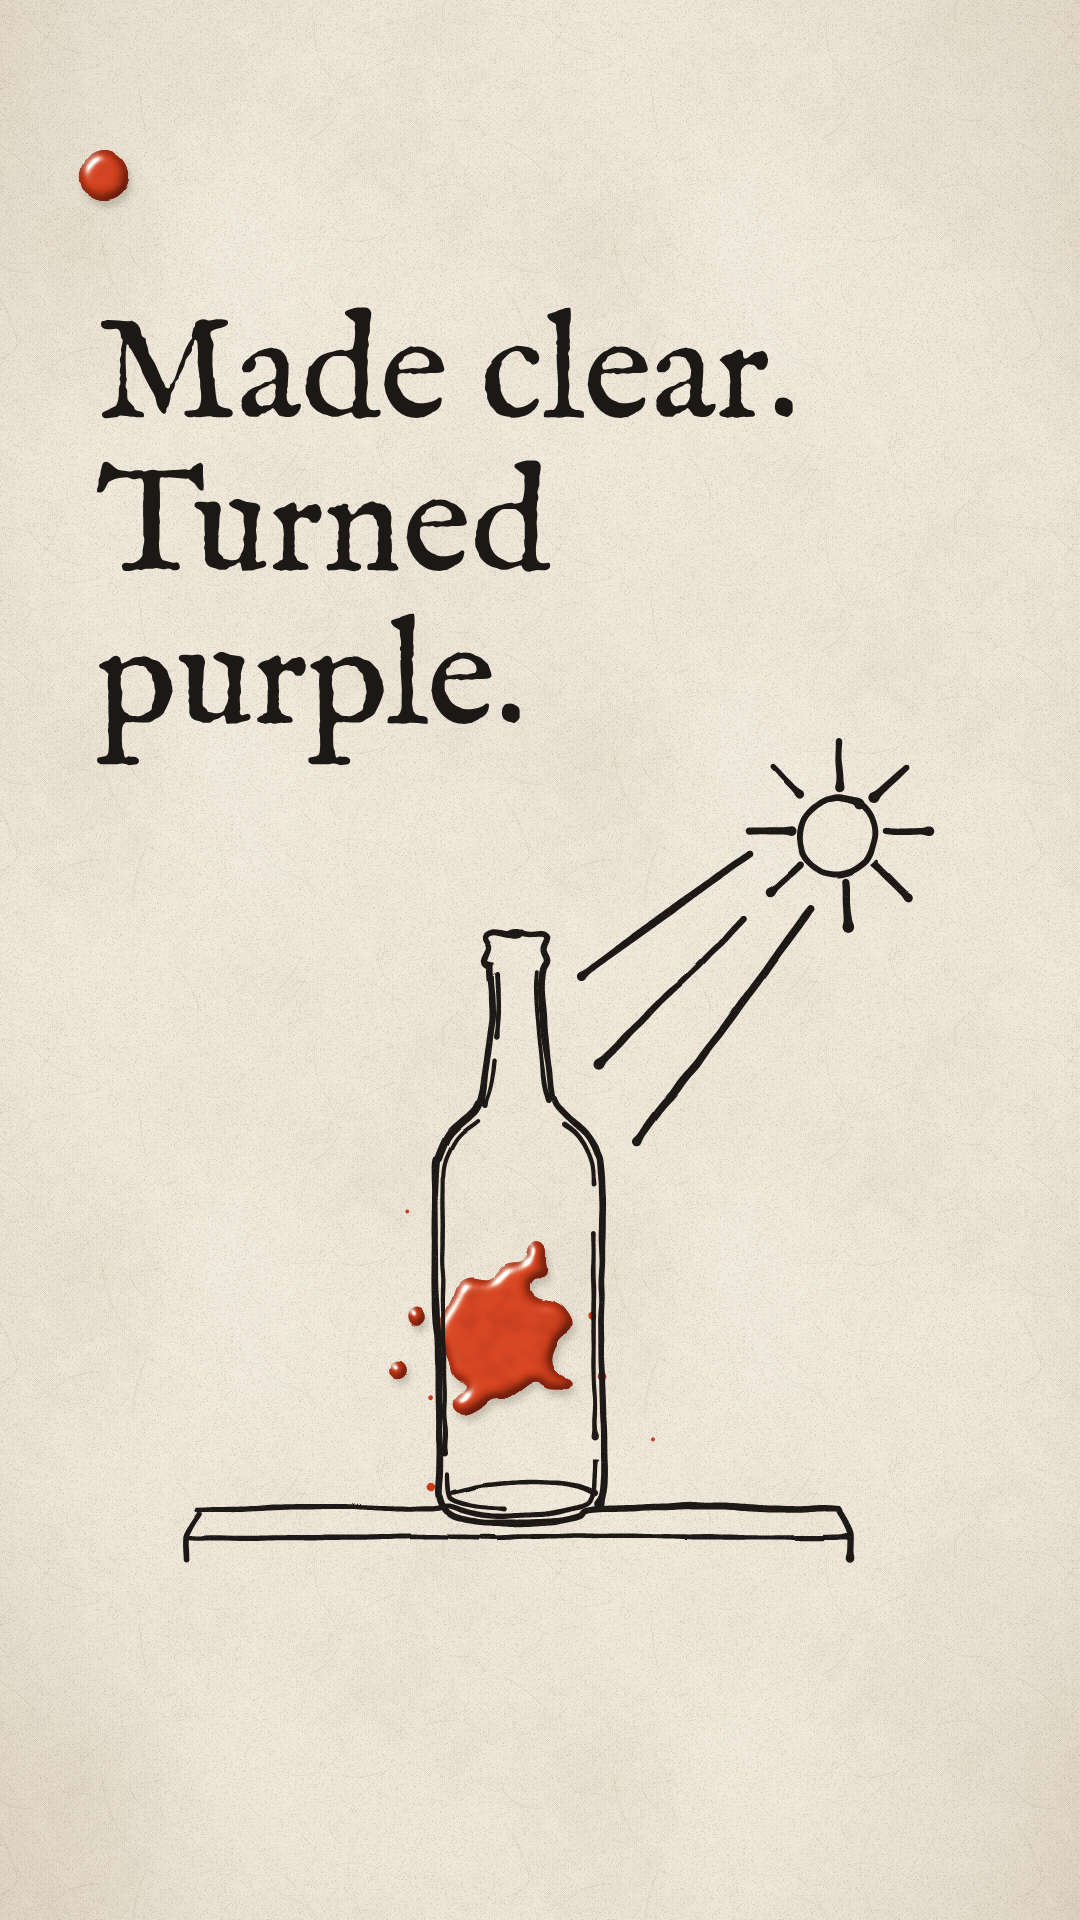
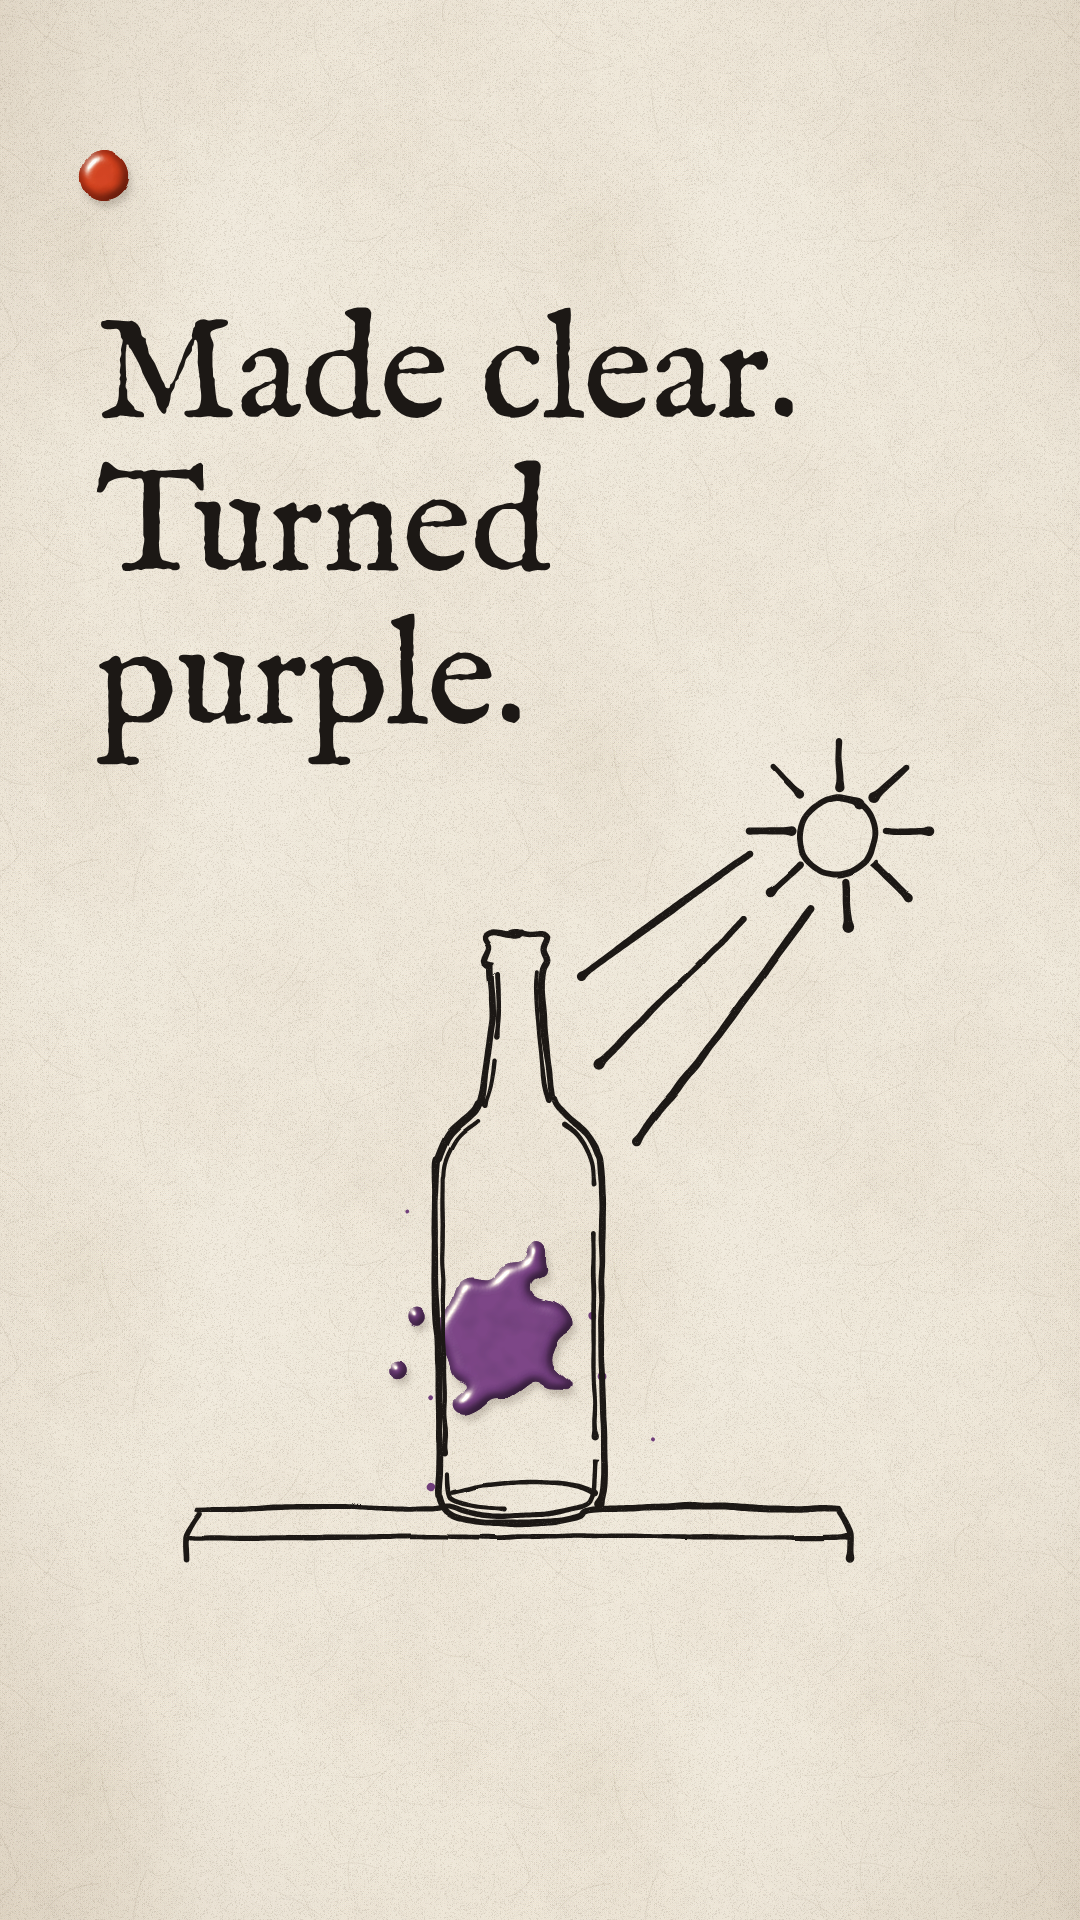
Cover paint can take the named colour (layout cover.color); Short 03's cover splash is now purple
The brand dot keeps a red copy of the paint filter.

Claude-Session: https://claude.ai/code/session_015VaSP1oJDutRL47vjmUuCK

Changed region(s): [[0.3667, 0.625, 0.5194, 0.75]]

diff --git a/engine/page.html b/engine/page.html
@@ -551,6 +551,11 @@ function renderCover() {
   $('ink').innerHTML = Ink.drawingPaths(items, 1).map(d => '<path d="' + d + '"/>').join('');
   const goo = [], spk = [];
   setLivePaint(RED_PC);
+  if (C.color) {   // the brand dot keeps a red copy of the paint filter; the splat takes the named colour
+    const g = $('paint').cloneNode(true); g.id = 'paintMark'; $('paint').parentNode.appendChild(g);
+    $('markG').setAttribute('filter', 'url(#paintMark)');
+    setLivePaint(pcOf(C.color));
+  }
   Paint.splatEls(Paint.splatFor(C.seed, C.R), C.x, C.y, 1.4, 0, 0, 0, goo, spk);
   $('paintG').innerHTML = goo.join(''); $('specksG').innerHTML = spk.join('');
   // brand mark: a single red-lead dot, fixed spot

diff --git a/stories/03-purple-glass/layout.py b/stories/03-purple-glass/layout.py
@@ -95,7 +95,7 @@ for sc in shots['scenes']:
 
 layout = {
     'style': {'ink': 6.4, 'inner': 0.68, 'minLen': 16, 'boil': 0.35, 'boilFps': 4, 'reel': {'on': True}},
-    'cover': {'words': ['Made clear.', 'Turned purple.'], 'art': 'sun-bottle', 'at': frac('sun-bottle', *T['sun-bottle']['bottle']),
+    'cover': {'words': ['Made clear.', 'Turned purple.'], 'color': 'violet', 'art': 'sun-bottle', 'at': frac('sun-bottle', *T['sun-bottle']['bottle']),
               'x': 560, 'y': 1150, 'w': 760, 'R': 56},
     'scenes': scenes,
 }
